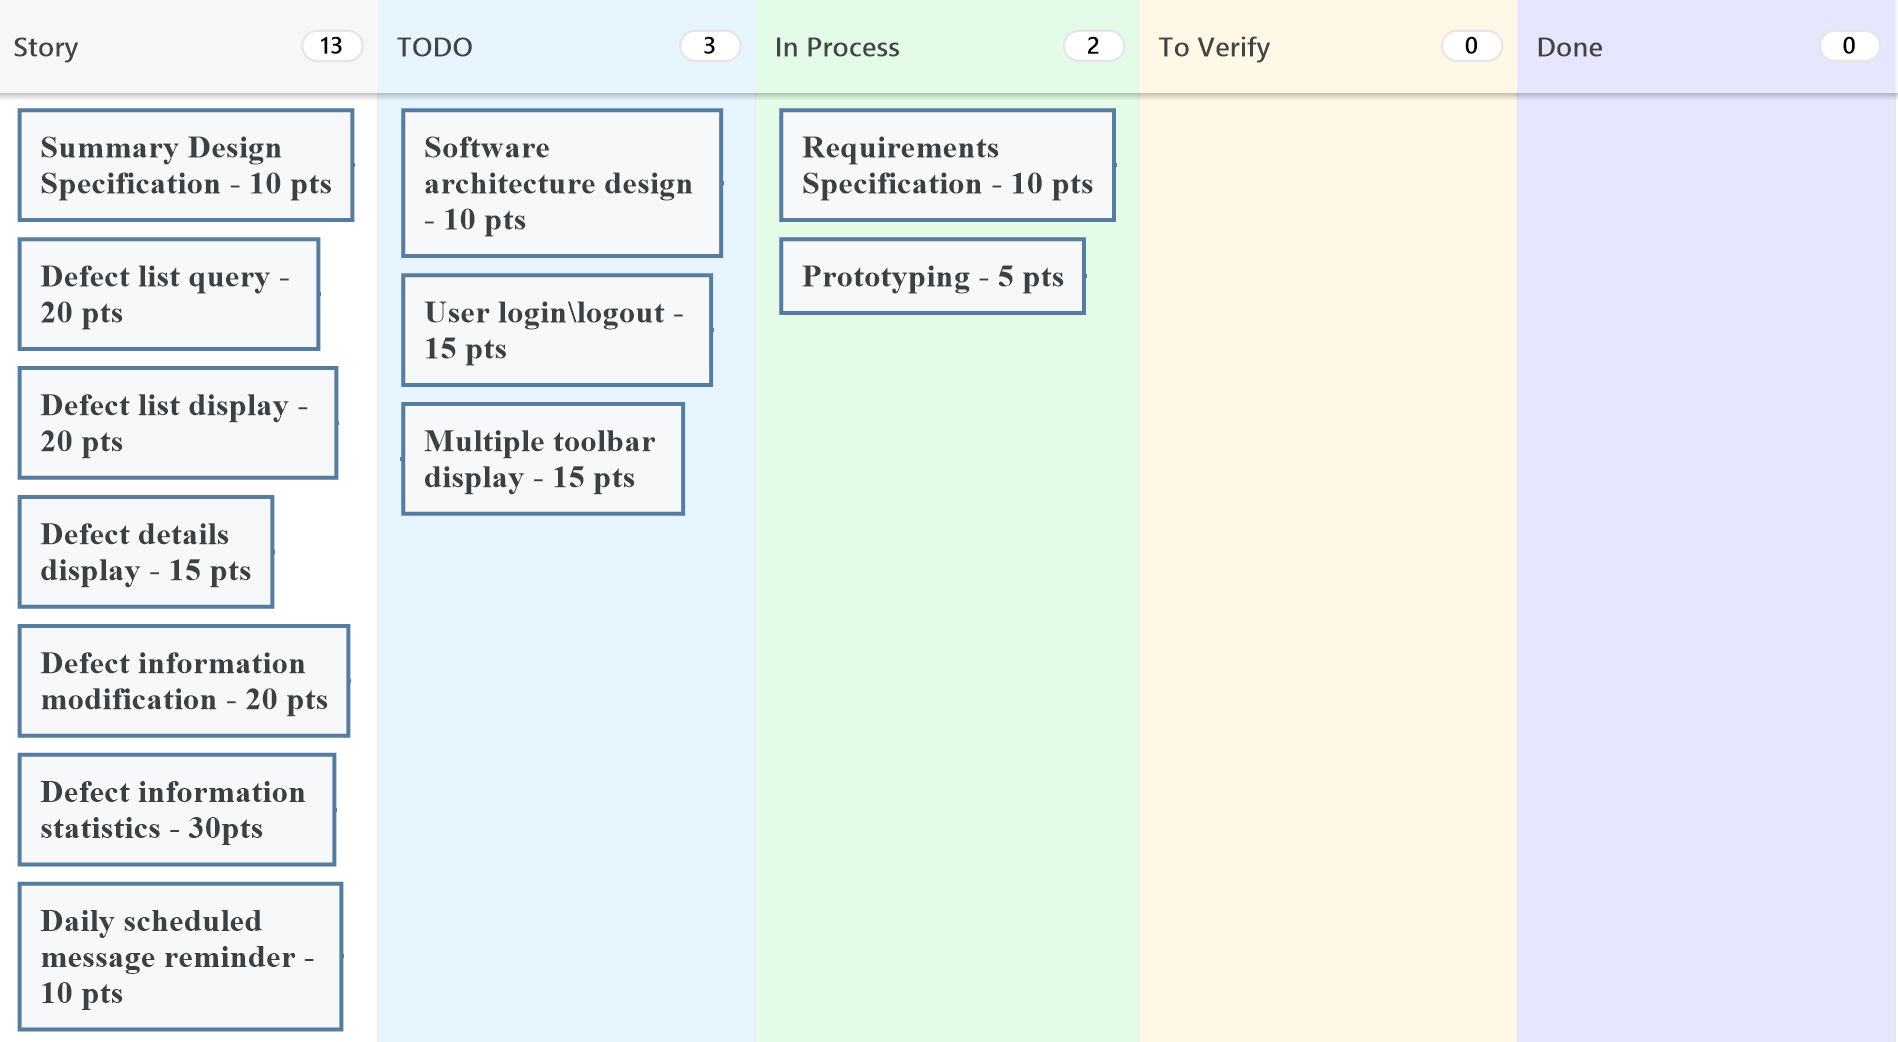
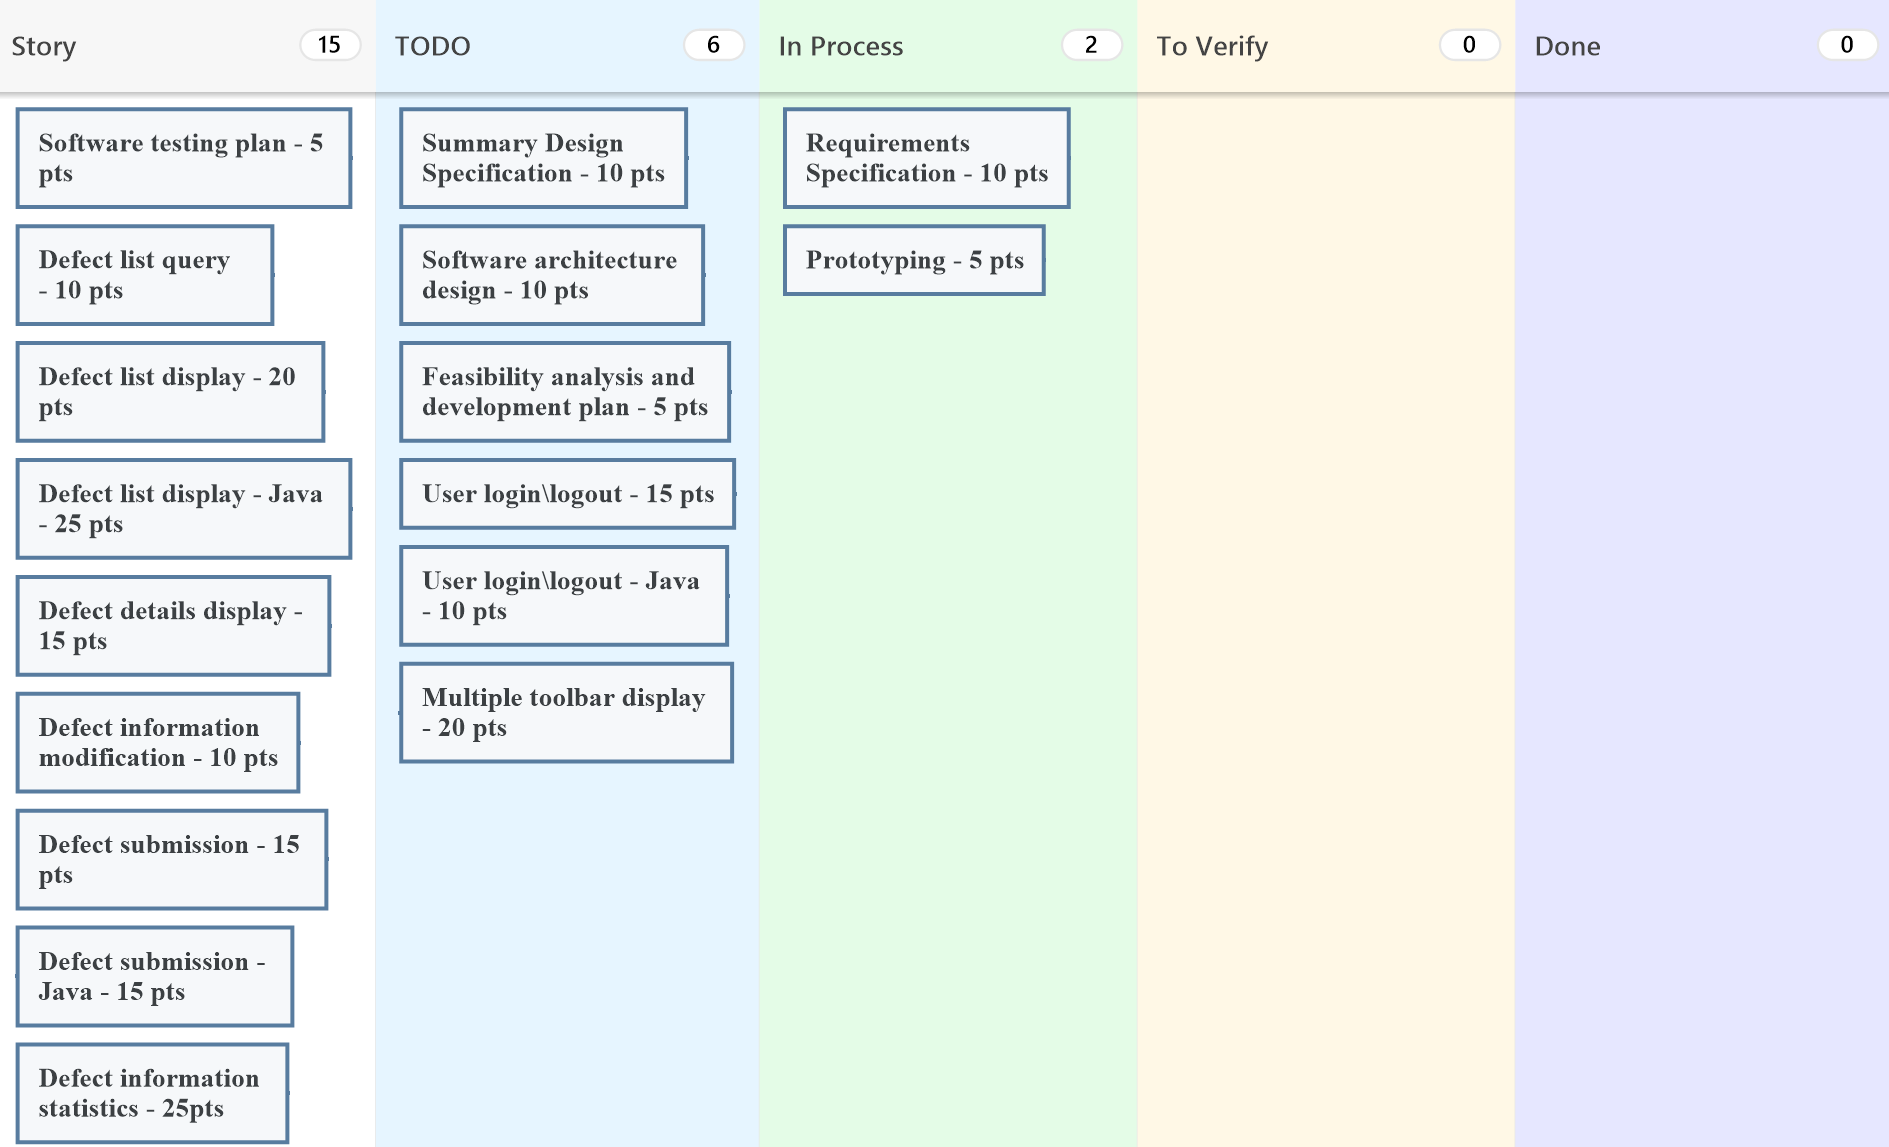
add task_board.png

Changed region(s): [[0.0, 0.0, 1.0, 1.0]]

diff --git a/Stand-up meetings/meeting_20231018.md b/Stand-up meetings/meeting_20231018.md
@@ -17,9 +17,9 @@ Through discussion, Ding Yi will write an interface document recently and provid
 1. The main interfaces of Spring Boot have been completed.
 2. Spring Boot should take into account the deployment of the server, to facilitate the implementation of front-end functionality and tuning.
 3. The development of the VSCode extension code has encountered some problems；
-- Due to the fact that both members were new to VSCode development, the code in each section worked fine on its own, but could not be integrated with the system.
-- 侧边栏异步问题
-- cookie校验问题
+   - Due to the fact that both members were new to VSCode development, the code in each section worked fine on its own, but could not be integrated with the system.
+   - 侧边栏异步问题
+   - VSCode extensions haven't found a very stable way to store cookies to guarantee login status.
 
 ##### 4. Process
 
@@ -27,7 +27,14 @@ Through discussion, Ding Yi will write an interface document recently and provid
 |:-------------|:------------------------------------|:----------:|
 | Wang Yuchen  | Back-end service deployment         | 2023-10-25 |
 | Wang Jiahe   | Integration of individual functions | 2023-10-31 |
-| Lyu Guanchen | The function of defect modify       | 2023-10-25 |
+| Lyu Guanchen | The function of defect query        | 2023-10-25 |
 | Ding Yi      | Interface document/ Testing plan    | 2023-10-25 |
 | Li Jiayi     | The function of defect display      | 2023-10-25 |
 | Ha Yanguang  | The function of defect statistics   | 2023-10-25 |
+
+
+##### 5. Task board
+Image:
+![avatar](https://github.com/Chen30lv/Project-Defect-Manage-Tool/blob/main/Stand-up%20meetings/IMG/TaskBoard_week_7.png)
+
+> Taskboard in Week7

diff --git a/Stand-up meetings/meeting_20231025.md b/Stand-up meetings/meeting_20231025.md
@@ -12,7 +12,8 @@ How the code for the VSCode extension fits together
 1. Lyu Guanchen missed the stand-up meeting due to acute enteritis, and suffered a lot last week, so the code completion date has been postponed to 11-01
 2. Wang Yuchen purchased a Huawei cloud server in Hong Kong on October 22, but due to unknown reasons, the access IP was disabled by the cloud server. He could only get a refund and plan to buy a Tencent cloud server in mainland China and redeploy it recently.
 3. Since the cookie storage problem is difficult to solve, Ding Yi modified the verification of the back-end interface and asked front-end developers to complete the page function development first.
-
+4. Defective Right-Click Commit Revision Status
+5. Wang Jiahe solved problems about multiple toolbar display
 ##### 3. Process
 
 | Member       | Tasks of the week                      |  Deadline  |
@@ -23,3 +24,10 @@ How the code for the VSCode extension fits together
 | Ding Yi      | Assist VSCode tool joint debugging     | 2023-11-05 |
 | Li Jiayi     | The function of daily message reminder | 2023-11-01 |
 | Ha Yanguang  | The function of defect statistics      | 2023-11-01 |
+
+
+##### 5. Task board
+Image:
+![avatar](https://github.com/Chen30lv/Project-Defect-Manage-Tool/blob/main/Stand-up%20meetings/IMG/TaskBoard_week_8.png)
+
+> Taskboard in Week8

diff --git a/Stand-up meetings/meeting_20231101.md b/Stand-up meetings/meeting_20231101.md
@@ -24,3 +24,10 @@ Wang Yuchen, Li Jiayi and Ha Yanguang start to prepare the final report in this 
 | Ding Yi      | Assist VSCode tool joint debugging  | 2023-11-08 |
 | Li Jiayi     | Writing FINAL REPORT                | 2023-11-19 |
 | Ha Yanguang  | Writing FINAL REPORT                | 2023-11-19 |
+
+
+##### 5. Task board
+Image:
+![avatar](https://github.com/Chen30lv/Project-Defect-Manage-Tool/blob/main/Stand-up%20meetings/IMG/TaskBoard_week_9.png)
+
+> Taskboard in Week9
